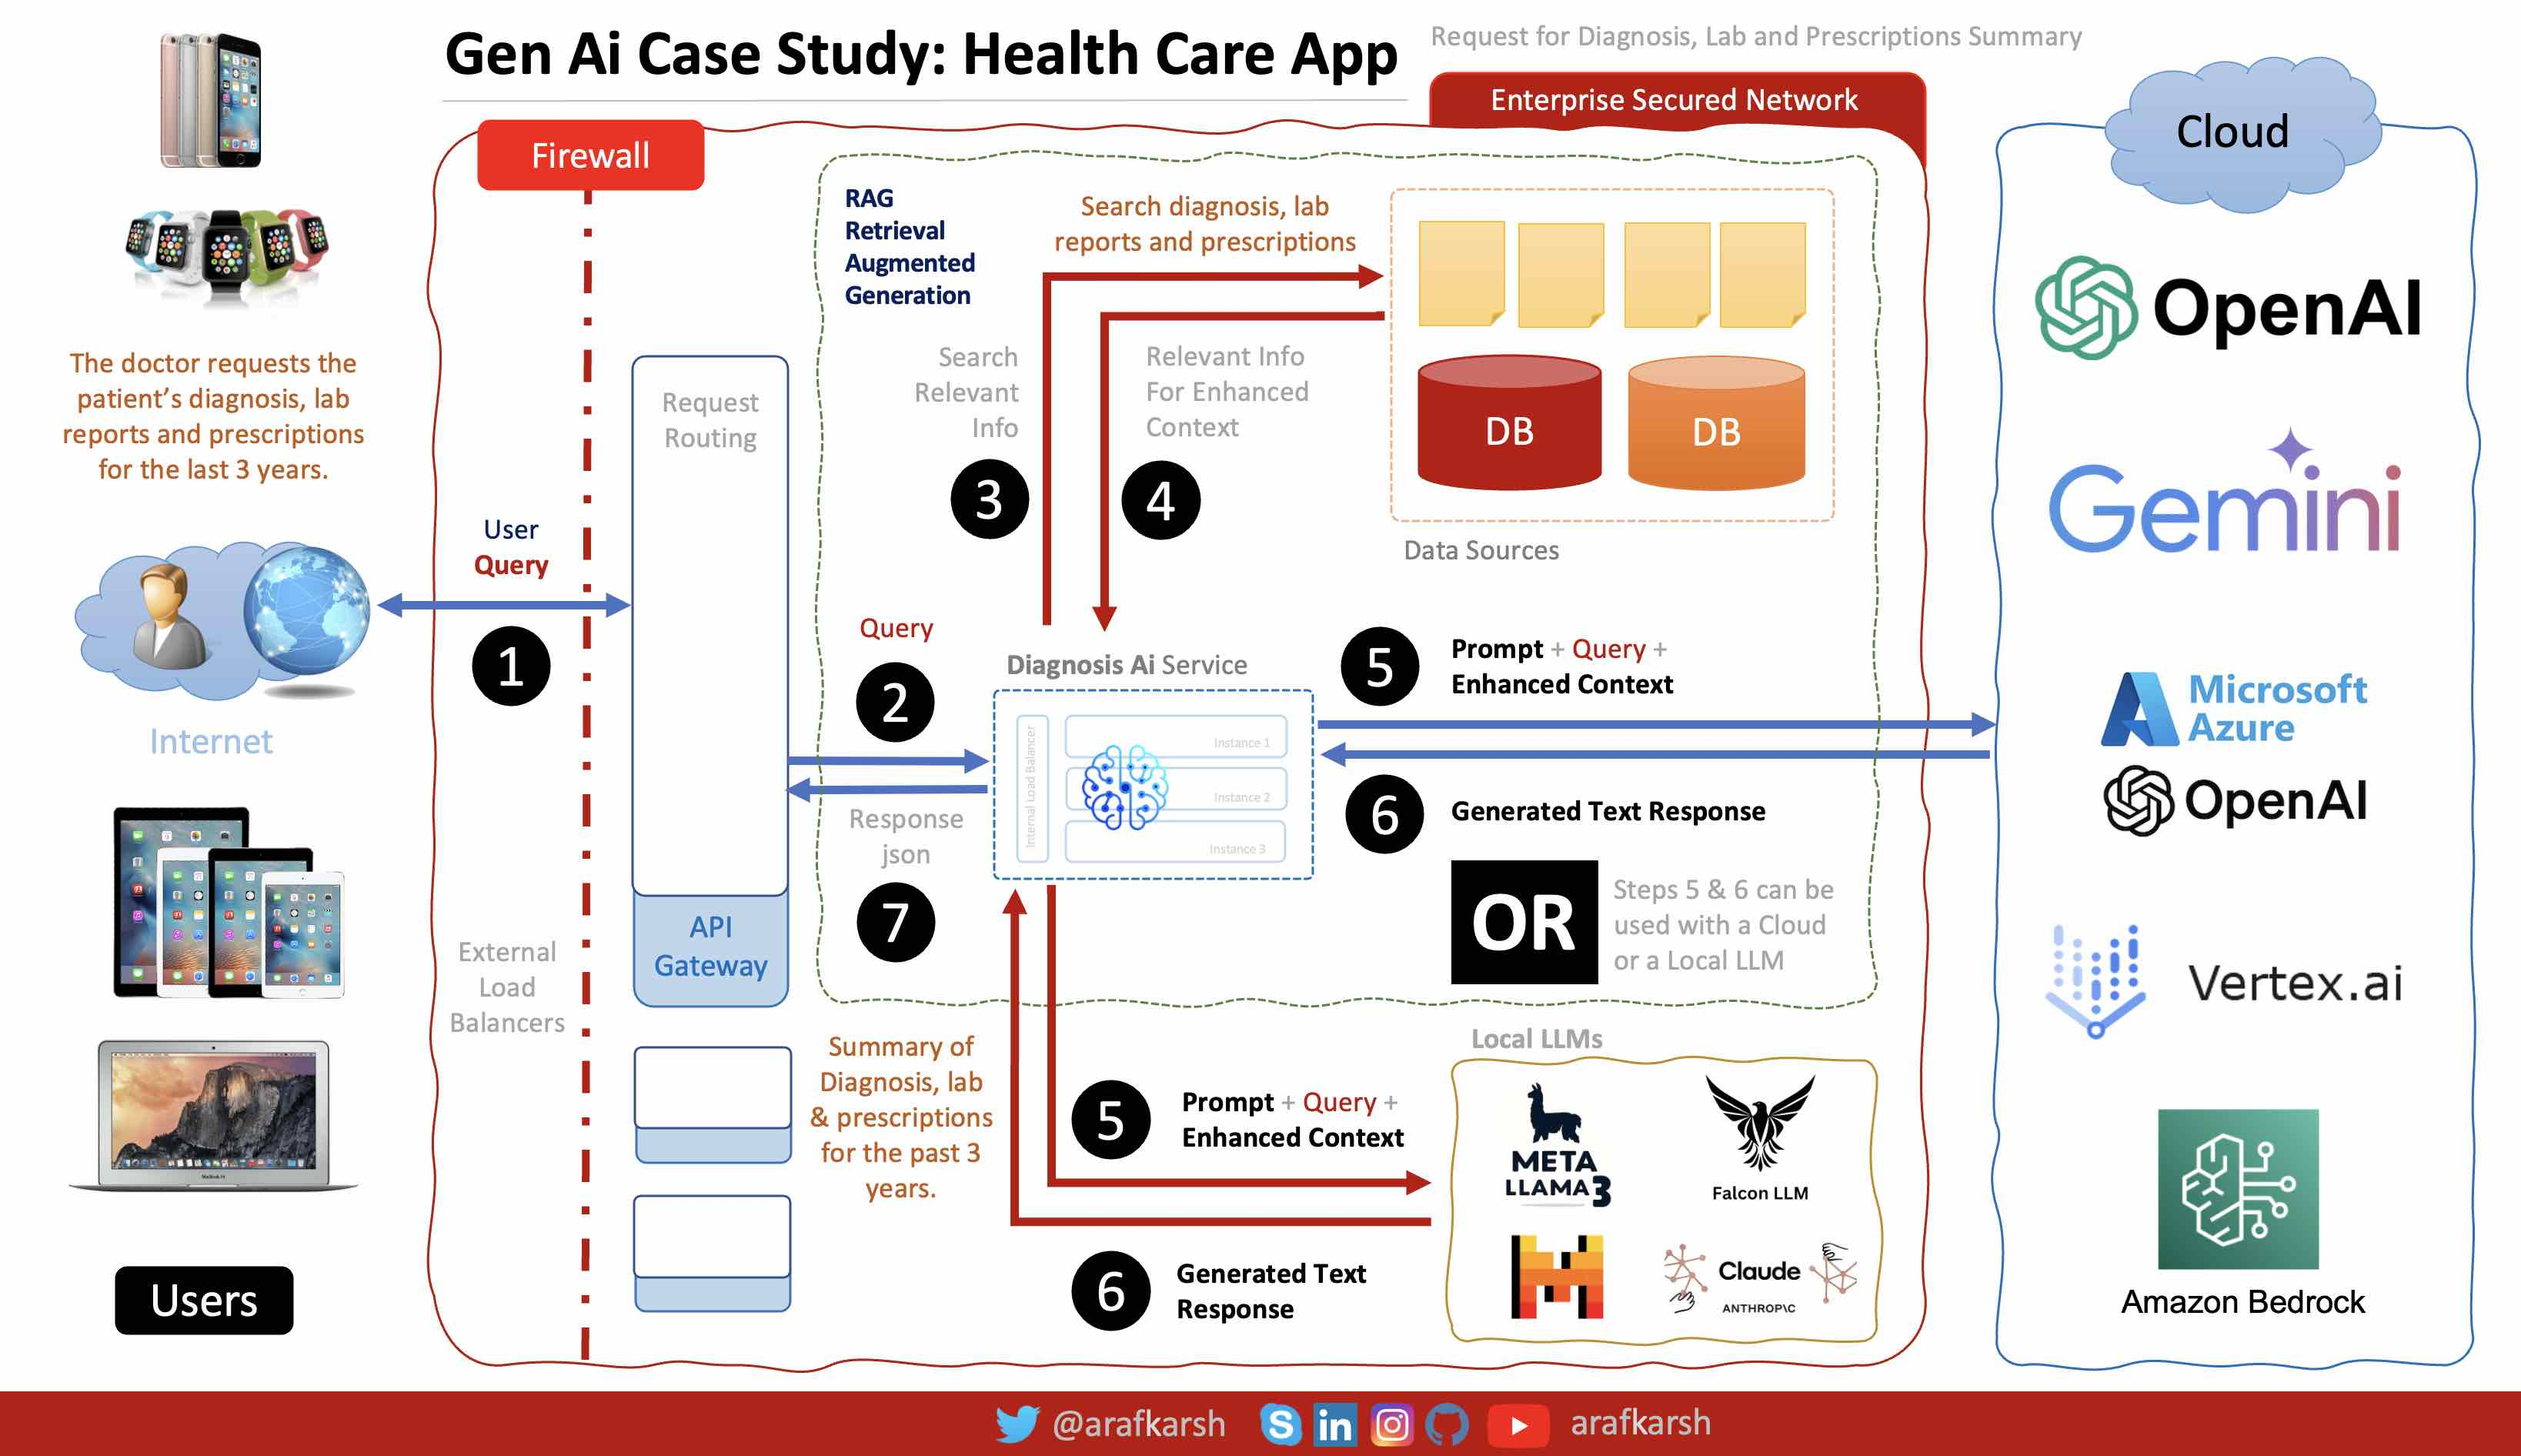
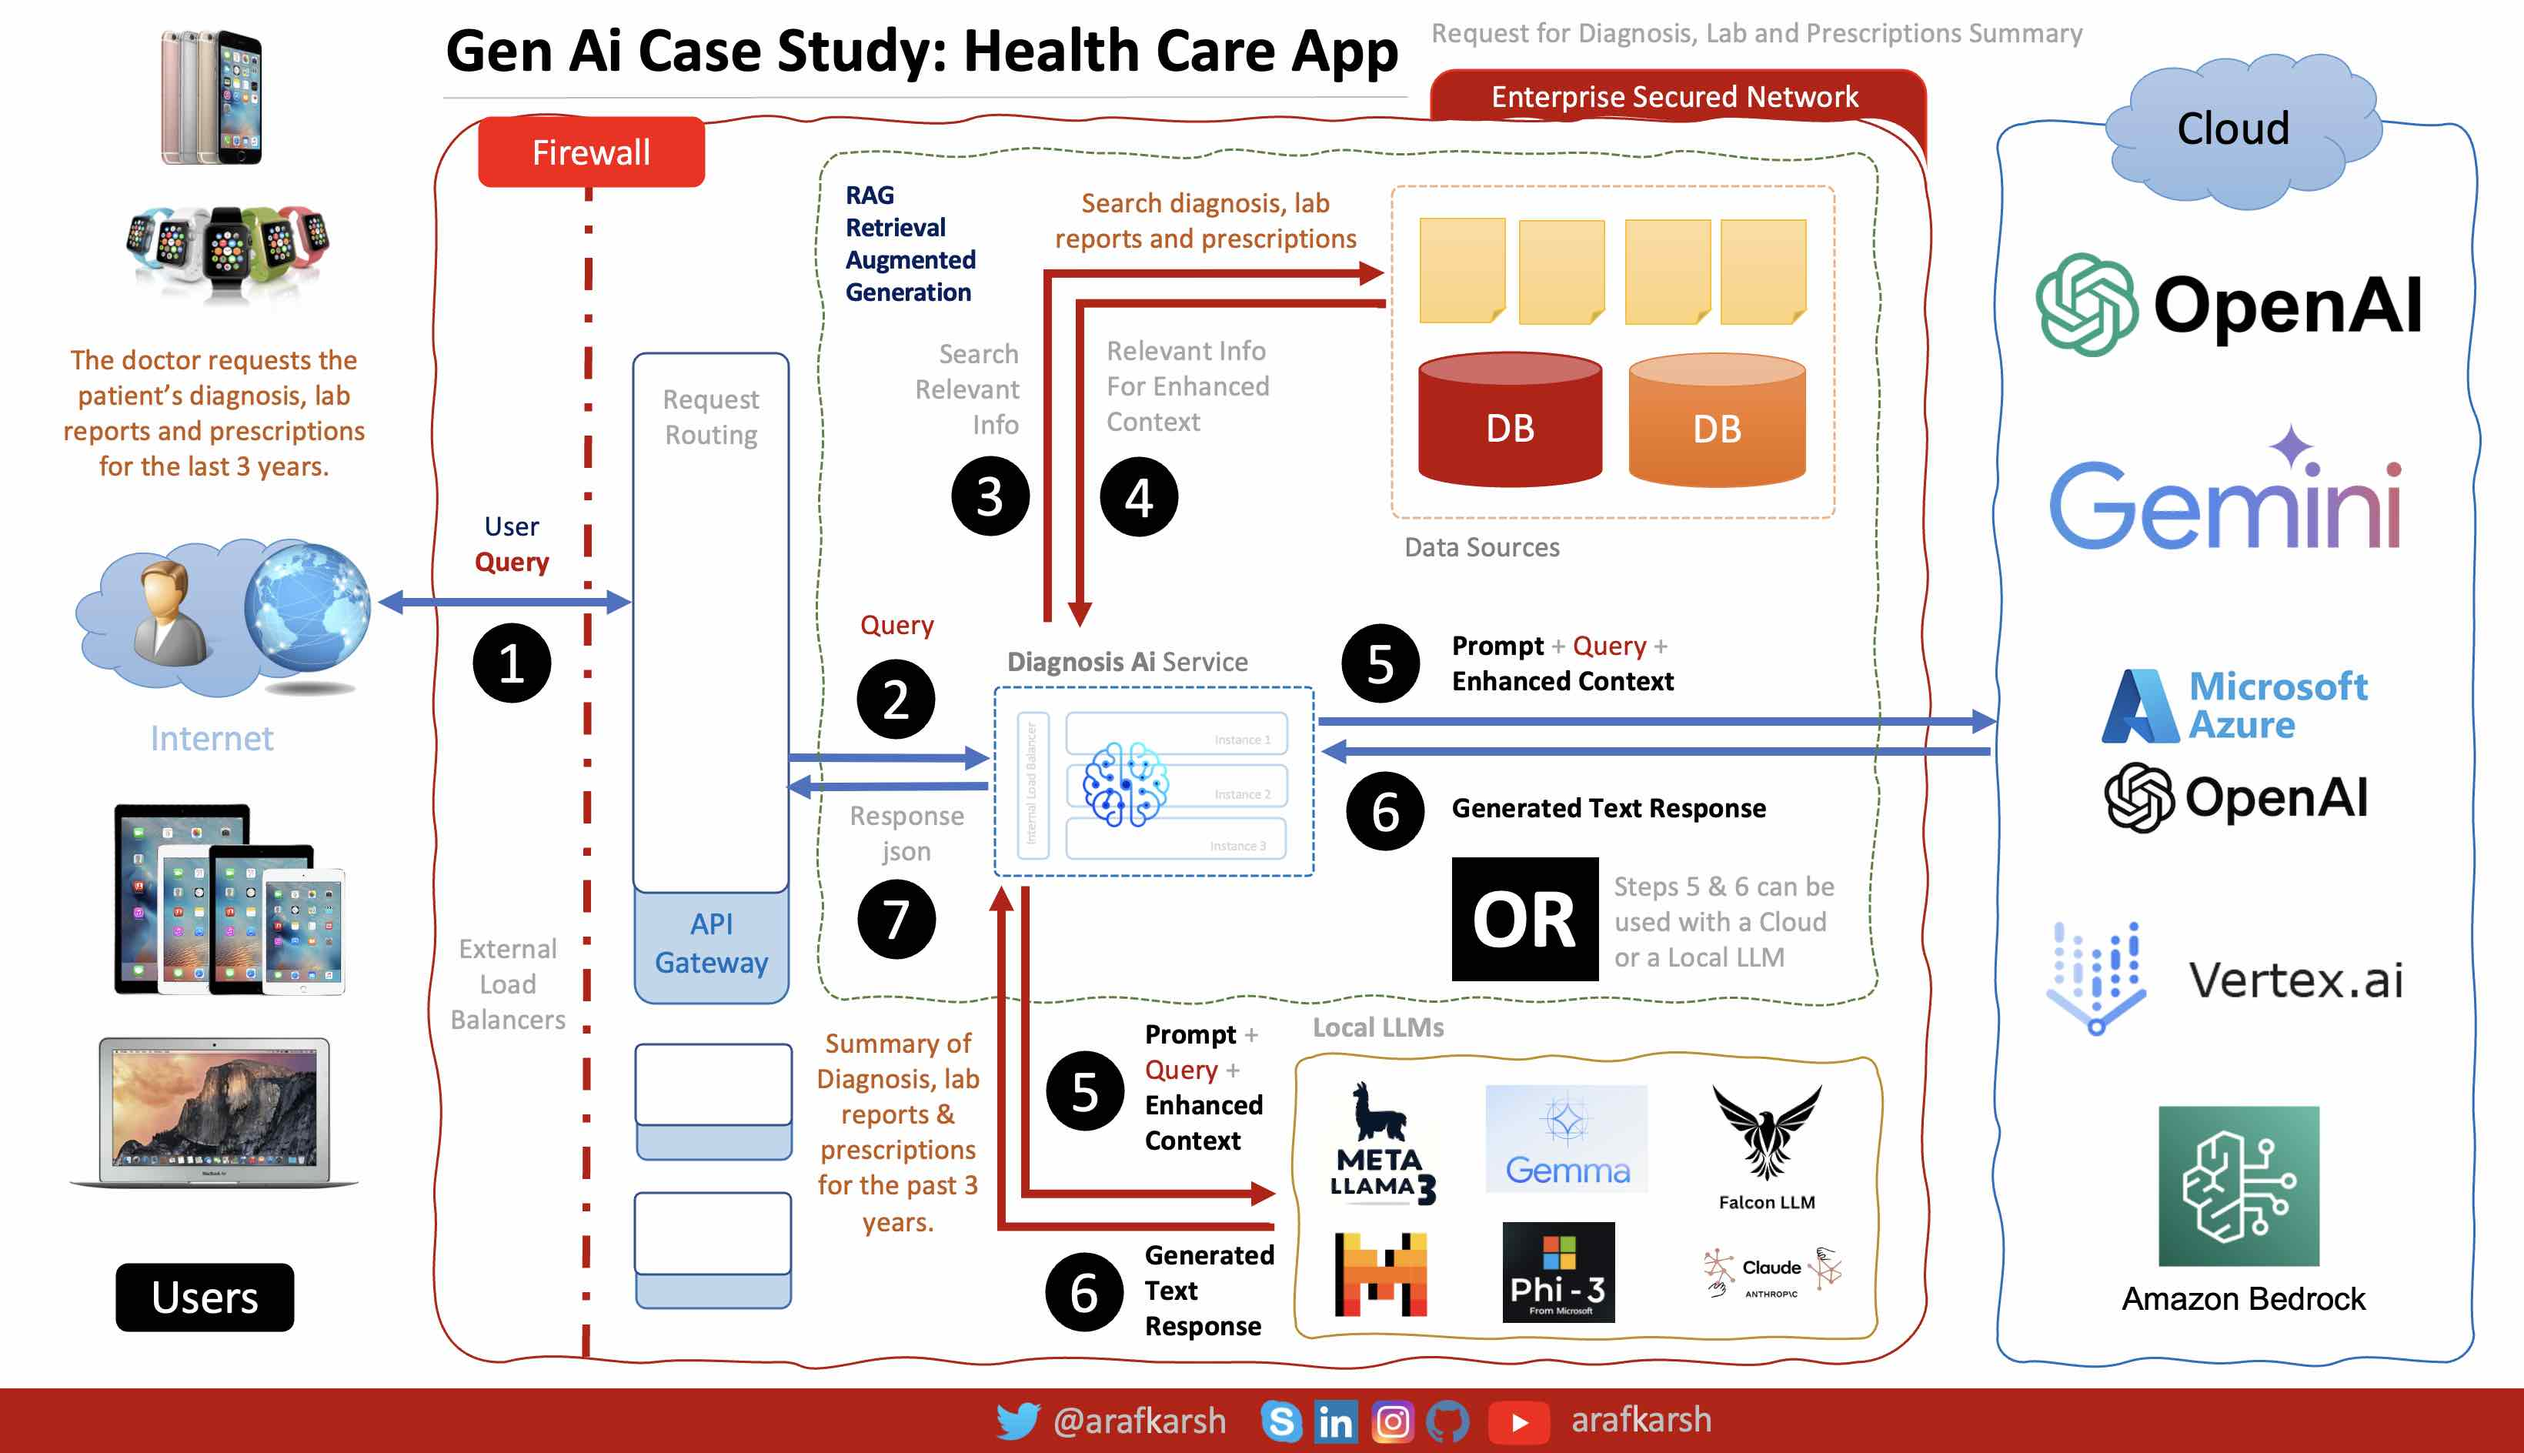
Local LLMS

diff --git a/src/main/java/io/fusion/air/microservice/ai/utils/AiConstants.java b/src/main/java/io/fusion/air/microservice/ai/utils/AiConstants.java
@@ -57,7 +57,7 @@ public class AiConstants {
     public static final String OPENAI_API_KEY = System.getenv("OPENAI_API_KEY");
     public static final String COHERE_API_KEY = System.getenv("COHERE_API_KEY");
 
-    // Llama Config --------------------------------------------------------------------
+    // Ollama Config --------------------------------------------------------------------
     @Value("${langchain4j.llama.url:http://localhost:11434/api/generate}")
     private  String llamaBaseUrl;
 
@@ -65,7 +65,9 @@ public class AiConstants {
     private  String llamaModel;
 
     public static String LLAMA_URL;
-    public static String LLAMA_MODEL = "llama3";
+    public static String OLLAMA_LLAMA3        = "llama3";
+    public static String OLLAMA_MISTRAL       = "mistral";
+
 
     // Algo Config ----------------------------------------------------------------------
     @Value("${langchain4j.default.algo:gpt-4o-2024-05-13}")
@@ -76,7 +78,7 @@ public class AiConstants {
     public void init() {
         DEFAULT_ALGO  = this.defaultAlgo;
         LLAMA_URL       = this.llamaBaseUrl;
-        LLAMA_MODEL   = this.llamaModel;
+        OLLAMA_LLAMA3 = this.llamaModel;
     }
 
     /**

diff --git a/README.md b/README.md
@@ -35,24 +35,24 @@ Here’s how it helps developers:
 |-----|-----------------------------------------|--------|---------|---------|--------------------------------------------------------------------------|
 | 1.  | Hello World                             | Yes    | Yes     |         | First Hello World Generative AI Example                                  |
 | 2.  | Complex World                           | Yes    | Yes     |         | Complex Example with Word Problems and Math                              |
-| 3.  | Custom Data Example                     | Yes    | Yes     |         | Use your data (docs) for Search / Query                                  |
-| 4.  | Image Example                           | Yes    | -       |         | Create an Image using text prompt                                        | 
-| 5.  | Prompt Template Example                 | Yes    | Yes     |         | Get Structured Response using Structured Prompt                          |
-| 6.  | Tools Example                           | Yes    | -       |         | Use Tools annotation for Custom Search / Queries                         |
-| 7.  | Chat Memory Example                     | Yes    | Yes     |         | How to create a ChatBot in a Conversational Context                      |
-| 8.  | FewShot Example                         | Yes    | Yes     |         | Create ChatBot with custom answers from an App perspective               |
-| 9.  | Translator Example                      | Yes    | Yes     |         | Translate from one language to another                                   |
-| 10. | Sentiment Analyzer Example              | Yes    | Yes     |         | Analyses the Sentiment of a text input. Positve, Neutral, Negative       |
-| 11. | Data Extractor Example                  | Yes    | Yes     |         | Extract Number, Date, Model (Pojo) from a Text                           |
-| 12. | Persistent Store Example                | Yes    | Yes     |         | Use a Persistent Store for Chat Memory & Retrieve the Chat based on User.|
-| 13. | RAG Simple Example                      | Yes    | Yes     |         | RAG based Chat Bot Use Case: Car Rental Service                          |
-| 14. | RAG Segments Example                    | Yes    | Yes     |         | RAG (using Segments) based Chat Bot Use Case: Car Rental Service         |
-| 15. | RAG Query Transformer Example           | Yes    | Yes     |         | RAG (using Query Transformer) Chat Bot Use Case: Biography               |
-| 16. | RAG Query Router Example                | Yes    | -       |         | RAG Query Routing between Car Rental Service & Biography                 |        
-| 17. | RAG Re-Ranking Example                  | Yes    | Yes     |         | RAG Re-Ranking using Cohere API. Case Study: Car Rental Service          |
-| 18. | RAG MetaData Example                    | Yes    | Yes     |         | RAG MetaData (Data Source). Case Study: Car Rental Service               |
-| 19. | RAG Multiple Content Retrievers Example | Yes    | Yes     |         | RAG Multi Content Retrievers. Car Rental & Biography                     |
-| 20. | RAG Skipping Content Retrieval Example  | Yes    | Yes     |         | RAG Content Retrieval Skipping. Case Study: Car Rental                   |
+| 3.  | Custom Data                      | Yes    | Yes     |         | Use your data (docs) for Search / Query                                  |
+| 4.  | Image                            | Yes    | -       |         | Create an Image using text prompt                                        | 
+| 5.  | Prompt Template                  | Yes    | Yes     |         | Get Structured Response using Structured Prompt                          |
+| 6.  | Tools                            | Yes    | -       |         | Use Tools annotation for Custom Search / Queries                         |
+| 7.  | Chat Memory                      | Yes    | Yes     |         | How to create a ChatBot in a Conversational Context                      |
+| 8.  | FewShot                          | Yes    | Yes     |         | Create ChatBot with custom answers from an App perspective               |
+| 9.  | Translator                       | Yes    | Yes     |         | Translate from one language to another                                   |
+| 10. | Sentiment Analyzer               | Yes    | Yes     |         | Analyses the Sentiment of a text input. Positve, Neutral, Negative       |
+| 11. | Data Extractor                   | Yes    | Yes     |         | Extract Number, Date, Model (Pojo) from a Text                           |
+| 12. | Persistent Store                 | Yes    | Yes     |         | Use a Persistent Store for Chat Memory & Retrieve the Chat based on User.|
+| 13. | RAG Simple                       | Yes    | Yes     |         | RAG based Chat Bot Use Case: Car Rental Service                          |
+| 14. | RAG Segments                     | Yes    | Yes     |         | RAG (using Segments) based Chat Bot Use Case: Car Rental Service         |
+| 15. | RAG Query Transformer            | Yes    | Yes     |         | RAG (using Query Transformer) Chat Bot Use Case: Biography               |
+| 16. | RAG Query Router                 | Yes    | -       |         | RAG Query Routing between Car Rental Service & Biography                 |        
+| 17. | RAG Re-Ranking                   | Yes    | Yes     |         | RAG Re-Ranking using Cohere API. Case Study: Car Rental Service          |
+| 18. | RAG MetaData                     | Yes    | Yes     |         | RAG MetaData (Data Source). Case Study: Car Rental Service               |
+| 19. | RAG Multiple Content Retrievers  | Yes    | Yes     |         | RAG Multi Content Retrievers. Car Rental & Biography                     |
+| 20. | RAG Skipping Content Retrieval   | Yes    | Yes     |         | RAG Content Retrieval Skipping. Case Study: Car Rental                   |
 
 ## Quick Test after starting the SpringBoot App
 ![Ai Prompt](https://raw.githubusercontent.com/arafkarsh/ms-springboot-324-ai/main/diagrams/ai/Ai-Prompt.jpg)

diff --git a/llms/README_LOCAL_LLMS.md b/llms/README_LOCAL_LLMS.md
@@ -1,0 +1,24 @@
+# Install Local LLMs
+
+## Ollama 
+
+### Download Ollama
+
+Go To the Web site: https://ollama.com/download
+Download for Mac, Windows and Linux.
+
+For Linux
+```
+curl -fsSL https://ollama.com/install.sh | sh
+```
+
+### Run Llama3
+```
+ollama run llama3
+```
+
+### Mistral
+
+```
+ollama run mistral
+```
